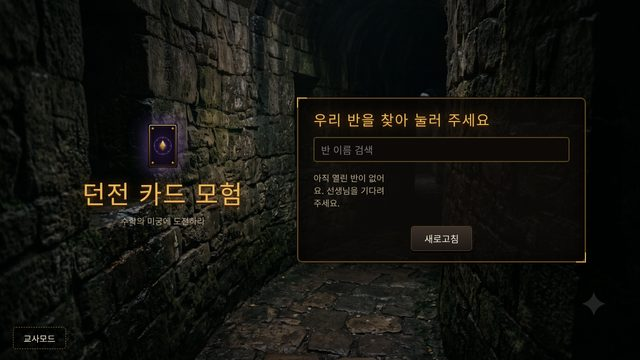
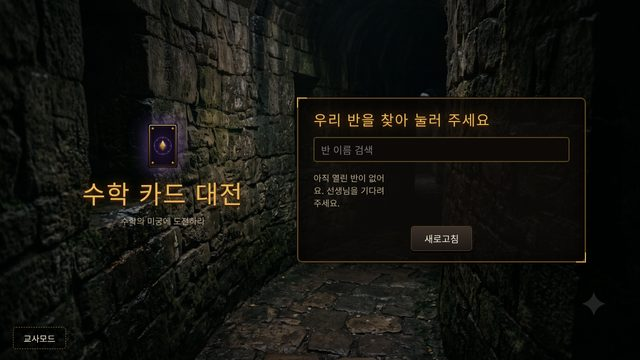
게임 이름 변경 반영: 수학 카드 대전, 초성 퀴즈 (썸네일 교체)
Claude-Session: https://claude.ai/code/session_01X8WTPE7LScvRFnsckpophP

Changed region(s): [[0.125, 0.4889, 0.2188, 0.5806], [0.2812, 0.4889, 0.375, 0.5806]]

diff --git a/index.html b/index.html
@@ -762,13 +762,13 @@
     const APPS_DATA = [
       {
         id: 'dungeon-card',
-        title: '던전 카드 모험',
+        title: '수학 카드 대전',
         category: 'math',
         hosting: 'render',
         url: 'https://class-game-hub.onrender.com/card/',
         thumbnail: './thumb-card.jpg',
         fallbackEmoji: '🃏',
-        description: '6학년 수학 문제를 풀며 카드를 모아 덱을 만들고, 친구와 1:1 카드 대결을 펼치는 던전 모험 게임입니다.',
+        description: '6학년 수학 문제를 풀며 카드를 모아 덱을 만들고, 친구와 1:1 카드 대결을 펼치는 수학 카드 대전 게임입니다.',
         guide: {
           grade: '초등 6학년 (1·2학기 12단원)',
           duration: '40분 (1차시)',
